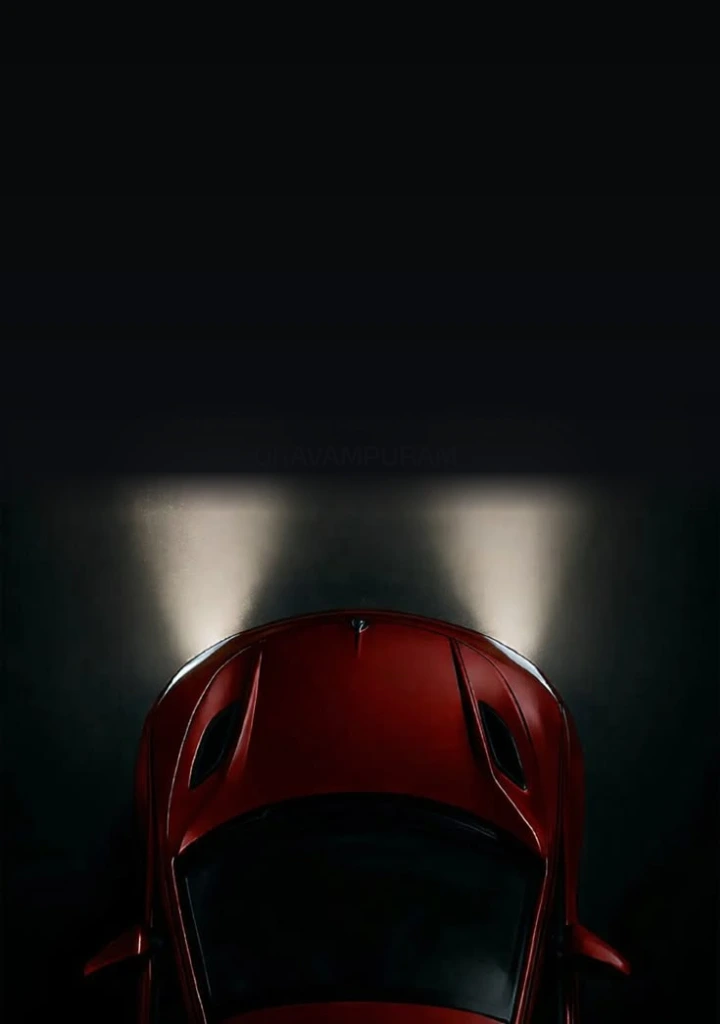
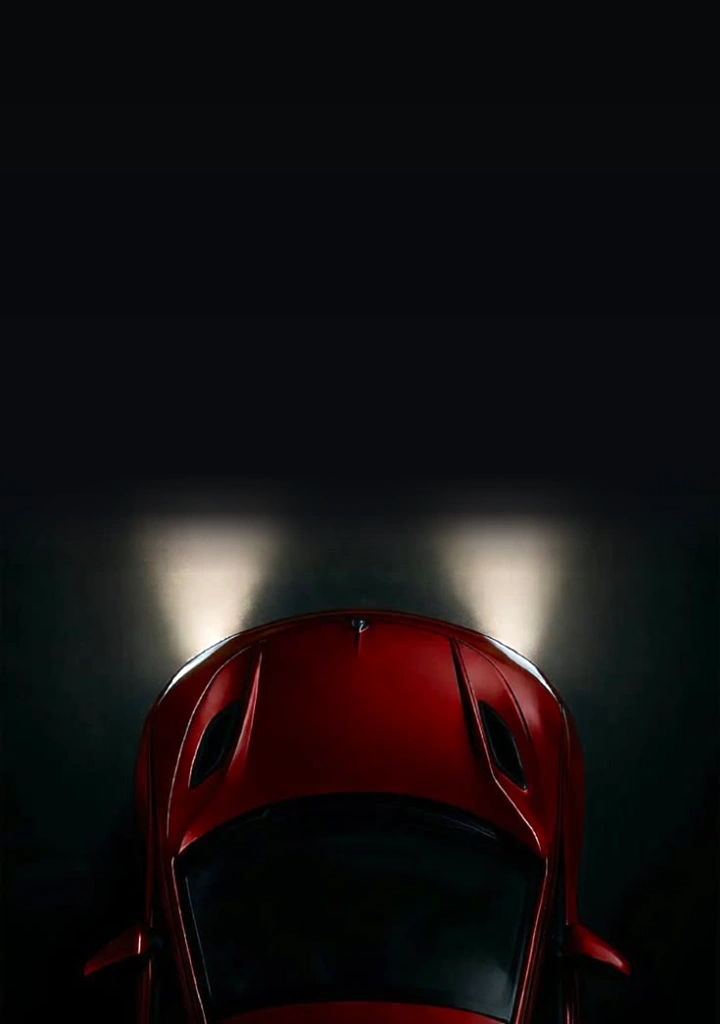
Respaldo sincronizado: Supabase, Base Local y GitHub

Changed region(s): [[0.1528, 0.4375, 0.4278, 0.6562], [0.55, 0.4375, 0.825, 0.6562], [0.3361, 0.6562, 0.3667, 0.6875]]

diff --git a/src/components/JornadasComingSoonHero.tsx b/src/components/JornadasComingSoonHero.tsx
@@ -123,67 +123,52 @@ export default function JornadasComingSoonHero({
   };
 
   return (
-    <div className="relative w-full max-w-4xl mx-auto rounded-3xl overflow-hidden border border-white/15 bg-[#050608] shadow-[0_20px_70px_rgba(0,0,0,0.9)] my-6">
-      {/* Fondo: Deportivo rojo iluminando en la oscuridad */}
-      <div className="relative w-full min-h-[580px] sm:min-h-[640px] md:min-h-[720px] flex flex-col justify-between p-6 sm:p-10 z-10">
-        
-        {/* Imagen de fondo con faros encendidos */}
-        <div 
-          className="absolute inset-0 bg-cover bg-bottom bg-no-repeat pointer-events-none opacity-90 transition-all duration-700"
-          style={{ backgroundImage: "url('/assets/coming_soon_car_clean.webp')" }}
-        />
+    <div className="relative w-full max-w-xl sm:max-w-2xl mx-auto rounded-3xl overflow-hidden border border-white/15 bg-[#07080a] shadow-[0_25px_80px_rgba(0,0,0,0.95)] my-6 aspect-[720/1024]">
+      {/* Fondo: Deportivo rojo iluminando en la oscuridad - 100% visible sin oscurecimiento */}
+      <img
+        src="/assets/coming_soon_car_clean.webp"
+        alt="Próxima Jornada MasterTech"
+        className="absolute inset-0 w-full h-full object-cover object-bottom pointer-events-none select-none"
+      />
 
-        {/* Gradientes de contraste cinemático */}
-        <div className="absolute inset-0 bg-gradient-to-t from-black via-black/40 to-black/80 pointer-events-none" />
-        <div className="absolute top-0 inset-x-0 h-48 bg-gradient-to-b from-black via-black/80 to-transparent pointer-events-none" />
-
-        {/* ==================== ZONA SUPERIOR: LOGO Y BADGE ==================== */}
-        <div className="relative z-20 flex flex-col items-center text-center space-y-3 pt-2">
-          {/* Logo MasterTech */}
-          <div className="flex items-center gap-2 px-3 py-1 rounded-full bg-white/5 border border-white/10 backdrop-blur-md">
-            <img src="/logo.png" alt="Taller MasterTech" className="h-6 w-auto object-contain" />
-            <span className="text-[11px] font-black tracking-widest text-[#D4AF37] uppercase font-mono">
-              MASTERTECH C.A.
-            </span>
-          </div>
-
-          {/* Badge de Temporada */}
-          <div className="inline-flex items-center gap-2 px-4 py-1.5 rounded-full bg-red-600/20 border border-red-500/40 text-red-400 text-xs font-black tracking-widest uppercase shadow-lg shadow-red-950/50">
-            <Flame size={14} className="animate-pulse text-red-500" />
-            <span>{jornada.season || 'EDICIÓN ESPECIAL LIMITADA'}</span>
-          </div>
+      {/* Zona Superior de Contenido: El texto se ubica arriba en la atmósfera oscura, dejando el capó y faros completamente libres */}
+      <div className="relative z-20 flex flex-col items-center text-center px-4 sm:px-8 pt-6 sm:pt-10 space-y-2.5 sm:space-y-3.5 max-w-lg mx-auto">
+        {/* Logo MasterTech & Badge de Temporada */}
+        <div className="flex items-center gap-2 px-3 py-1 rounded-full bg-black/60 border border-white/15 backdrop-blur-md shadow-lg">
+          <img src="/logo.png" alt="Taller MasterTech" className="h-5 w-auto object-contain" />
+          <span className="text-[10px] sm:text-[11px] font-black tracking-widest text-[#D4AF37] uppercase font-mono">
+            MASTERTECH C.A.
+          </span>
+          <span className="text-zinc-500">•</span>
+          <span className="text-[10px] sm:text-[11px] font-black uppercase text-red-400">
+            {jornada.season || 'EDICIÓN ESPECIAL'}
+          </span>
         </div>
 
-        {/* ==================== ZONA CENTRAL: COMING SOON + MES VARIABLE ==================== */}
-        <div className="relative z-20 flex flex-col items-center text-center space-y-3 my-auto py-8">
-          {/* Texto Principal COMING SOON con efecto metálico iluminado */}
-          <h2 className="text-5xl sm:text-7xl md:text-8xl font-display font-black tracking-tighter uppercase text-transparent bg-clip-text bg-gradient-to-b from-white via-slate-200 to-slate-400 drop-shadow-[0_10px_25px_rgba(255,255,255,0.25)] select-none">
+        {/* Titular Principal COMING SOON con efecto metálico */}
+        <div className="space-y-0.5 sm:space-y-1 pt-1">
+          <h2 className="text-4xl sm:text-6xl md:text-7xl font-display font-black tracking-tighter uppercase text-transparent bg-clip-text bg-gradient-to-b from-white via-slate-100 to-slate-400 drop-shadow-[0_8px_25px_rgba(255,255,255,0.3)] select-none">
             {jornada.comingSoonTitle || 'COMING SOON'}
           </h2>
 
-          {/* Mes o Temporada Dinámica */}
-          <div className="flex items-center gap-3">
-            <span className="h-[2px] w-8 sm:w-16 bg-gradient-to-r from-transparent to-[#D4AF37]" />
-            <h3 className="text-xl sm:text-3xl md:text-4xl font-display font-black tracking-widest uppercase text-[#D4AF37] drop-shadow-[0_2px_10px_rgba(212,175,55,0.4)]">
+          {/* Mes Variable */}
+          <div className="flex items-center justify-center gap-2 sm:gap-3">
+            <span className="h-[1.5px] w-6 sm:w-12 bg-gradient-to-r from-transparent to-[#D4AF37]" />
+            <h3 className="text-lg sm:text-2xl md:text-3xl font-display font-black tracking-widest uppercase text-[#D4AF37] drop-shadow-[0_2px_10px_rgba(212,175,55,0.45)]">
               {displayMonthOrSeason}
             </h3>
-            <span className="h-[2px] w-8 sm:w-16 bg-gradient-to-l from-transparent to-[#D4AF37]" />
+            <span className="h-[1.5px] w-6 sm:w-12 bg-gradient-to-l from-transparent to-[#D4AF37]" />
           </div>
-
-          {/* Título de la jornada a develar */}
-          <p className="text-xs sm:text-sm md:text-base font-bold text-slate-200 max-w-xl mx-auto leading-relaxed drop-shadow-md px-4">
-            {jornada.title}
-          </p>
-
-          <p className="text-[11px] sm:text-xs text-zinc-400 max-w-md mx-auto">
-            {jornada.comingSoonSubtitle || 'Estamos preparando cupos estrictamente limitados y paquetes de optimización al más alto nivel.'}
-          </p>
         </div>
 
-        {/* ==================== ZONA INFERIOR: COUNTDOWN + BOTÓN LISTA VIP ==================== */}
-        <div className="relative z-20 flex flex-col items-center space-y-5 pb-2">
-          {/* Contador Regresivo */}
-          <div className="flex items-center gap-2 sm:gap-3 bg-black/75 backdrop-blur-md px-4 sm:px-6 py-2.5 rounded-2xl border border-white/15 shadow-xl">
+        {/* Mensaje de Misterio / Subtítulo */}
+        <p className="text-[11px] sm:text-xs md:text-sm font-semibold text-zinc-300 max-w-md mx-auto leading-snug drop-shadow-md px-2">
+          {jornada.comingSoonSubtitle || 'La mayor jornada de alto rendimiento automotriz está por comenzar en Isla de Margarita.'}
+        </p>
+
+        {/* Contador Regresivo Compacto Horizontal */}
+        <div className="pt-1 sm:pt-2">
+          <div className="inline-flex items-center gap-1.5 sm:gap-3 bg-black/75 backdrop-blur-md px-3 sm:px-5 py-2 rounded-2xl border border-white/15 shadow-xl">
             {[
               { val: timeLeft.days, label: 'DÍAS' },
               { val: timeLeft.hours, label: 'HORAS' },
@@ -191,35 +176,37 @@ export default function JornadasComingSoonHero({
               { val: timeLeft.secs, label: 'SEG' }
             ].map((unit, idx) => (
               <React.Fragment key={idx}>
-                <div className="text-center min-w-[48px] sm:min-w-[58px]">
-                  <span className="text-xl sm:text-3xl font-display font-black text-white block leading-none font-mono">
+                <div className="text-center min-w-[34px] sm:min-w-[46px]">
+                  <span className="text-base sm:text-2xl font-display font-black text-white block leading-none font-mono">
                     {String(unit.val).padStart(2, '0')}
                   </span>
-                  <span className="text-[8px] sm:text-[9px] font-bold text-zinc-400 uppercase tracking-widest block mt-0.5">
+                  <span className="text-[7px] sm:text-[8px] font-bold text-zinc-400 uppercase tracking-widest block mt-0.5">
                     {unit.label}
                   </span>
                 </div>
-                {idx < 3 && <span className="text-amber-400 font-black text-lg sm:text-2xl opacity-70">:</span>}
+                {idx < 3 && <span className="text-amber-400 font-bold text-sm sm:text-lg opacity-70">:</span>}
               </React.Fragment>
             ))}
           </div>
+        </div>
 
-          {/* Botón Lista de Espera */}
+        {/* Botón Lista de Espera VIP */}
+        <div className="pt-1">
           <button
             type="button"
             onClick={handleWaitlistClick}
-            className="w-full sm:w-auto px-8 py-3.5 rounded-2xl bg-gradient-to-r from-red-600 via-red-700 to-amber-600 hover:from-red-500 hover:to-amber-500 text-white font-black text-xs sm:text-sm uppercase tracking-wider flex items-center justify-center gap-2.5 shadow-[0_10px_35px_rgba(220,38,38,0.5)] transition-all cursor-pointer hover:scale-105 border border-red-400/40"
+            className="w-full sm:w-auto px-6 sm:px-8 py-2.5 sm:py-3 rounded-2xl bg-gradient-to-r from-red-600 via-red-700 to-amber-600 hover:from-red-500 hover:to-amber-500 text-white font-black text-xs sm:text-xs uppercase tracking-wider flex items-center justify-center gap-2 shadow-[0_8px_30px_rgba(220,38,38,0.5)] transition-all cursor-pointer hover:scale-105 border border-red-400/40"
           >
-            <WhatsAppIcon size={18} className="text-white fill-current shrink-0" />
+            <WhatsAppIcon size={16} className="text-white fill-current shrink-0" />
             <span>UNIRME A LA LISTA DE ESPERA VIP</span>
-            <ChevronRight size={16} />
+            <ChevronRight size={14} />
           </button>
-
-          <span className="text-[10px] text-zinc-400 font-semibold flex items-center gap-1.5">
-            <ShieldCheck size={13} className="text-emerald-400" />
-            <span>Acceso anticipado a cupos con tarifa preferencial MasterTech</span>
-          </span>
         </div>
+
+        <span className="text-[9px] sm:text-[10px] text-zinc-400 font-semibold flex items-center justify-center gap-1.5 pt-0.5">
+          <ShieldCheck size={12} className="text-emerald-400 shrink-0" />
+          <span>Acceso anticipado a cupos con tarifa preferencial MasterTech</span>
+        </span>
       </div>
     </div>
   );
